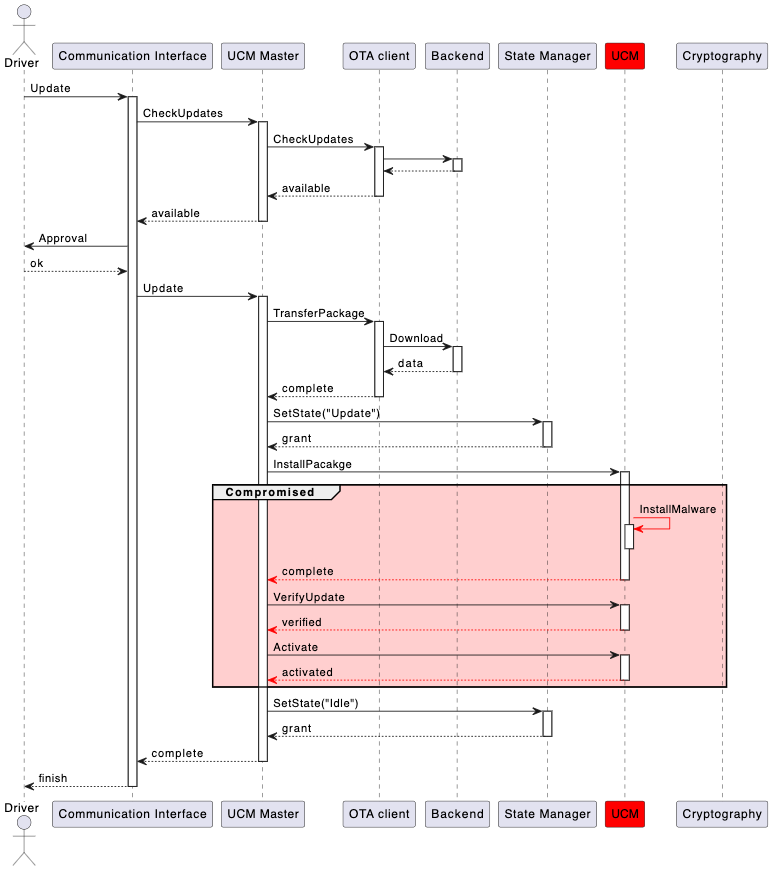
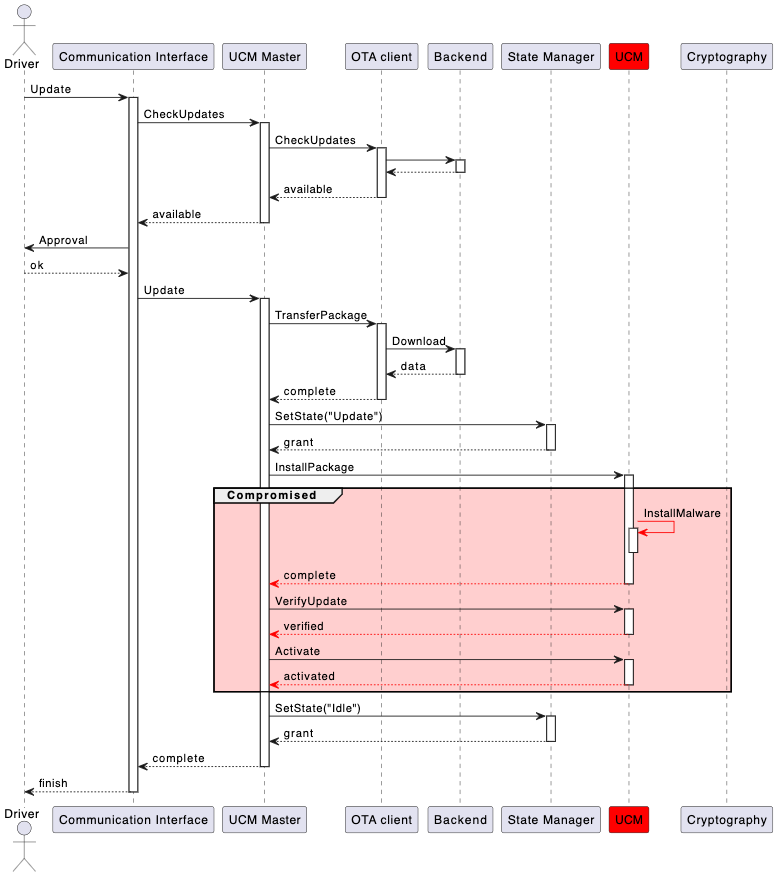
Upgrade architecture

diff --git a/README.md b/README.md
@@ -89,8 +89,11 @@
 
 ## НС-4
 
-При компрометации модуля `UCM Master` становится доступна установка модуля в произвольный момент времени, нарушая `ЦБ-2`. Сценарий аналогичен `НС-2`.
-Негативные последствия, не приводащие к нарушению целей безопасности аналогичны `НС-3`.
+При компрометации модуля `UCM Master` становится доступна установка модуля в произвольный момент времени, нарушая `ЦБ-2`. 
+Сценарий аналогичен `НС-2`.
+Негативные последствия, не приводящие к нарушению целей безопасности аналогичны `НС-3`.
+
+![UCM Master compromised](doc/negative-scenarios/NS-4-ucm-master-compromised.png)
 
 ## НС-5
 
@@ -113,12 +116,37 @@
 
 | Наименование | Уровень доверия | Обоснование | 
 | --- |  --- |  --- | 
-| `Communication interface` | <span style="background-color:red;color:white">недоверенный</span> | Компрометация не нарушает ЦБ | 
-| `UCM Master` | <span style="background-color:red;color:white">недоверенный</span> | Компрометация не нарушает ЦБ при доверенном компоненте `Cryptography` |
-| `UCM` | <span style="background-color:green;color:white">доверенный</span> | `НС-1` |
-| `OTA Client` | <span style="background-color:red;color:white">недоверенный</span> | не нарушает ЦБ при доверенном компоненте `Cryptography` |
-| `State Manager` | <span style="background-color:green;color:white">доверенный</span> | `НС-2` |
-| `Cryptography` | <span style="background-color:green;color:white">доверенный</span> | `НС-3`, `НС-6` |
+| `UCM` | доверенный | `НС-1` |
+| `State Manager` | доверенный | `НС-2` |
+| `Cryptography` | доверенный | `НС-3`, `НС-6` |
+| `UCM Master` | доверенный | `НС-4` |
+| `OTA Client` | недоверенный | Компрометация не нарушает ЦБ при доверенном компоненте `Cryptography` |
+| `Communication interface` | недоверенный | Компрометация не нарушает ЦБ | 
+Табл. 1
+
+# Переработанная политика архитектуры
+
+Полученное на предыдущем шаге решение содержит большое количество доверенного кода.
+Компонент `UCM Master` вынужденно добавлен в список доверенных компонентов, т.к. его компрометация нарушает `ЦБ-2`. К тому же этот компонент является самым большим в системе. 
+
+В целях минимизации доверенной кодовой базы, переработав базовый сценарий, этот компонент можно вывести из списка доверенных. Для этого достаточно вынести из него функциональность по взаимодействию со `State Manager`. `UCM` подходящий компонент, который мог бы взять на себя эту работу вместо `UCM Master`.
+
+Доработаный базовый сценарий теперь выглядит следующим образом:
+
+![base-scenario-2.0](doc/base-scenario-2.0.png)
+
+| Наименование | Уровень доверия | Обоснование | 
+| --- |  --- |  --- | 
+| `UCM` | доверенный | `НС-1` |
+| `State Manager` | доверенный | `НС-2` |
+| `Cryptography` | доверенный | `НС-3`, `НС-6` |
+| `UCM Master` | недоверенный | Компрометация не нарушает ЦБ при доверенном компоненте `Cryptography`  |
+| `OTA Client` | недоверенный | Компрометация не нарушает ЦБ при доверенном компоненте `Cryptography` |
+| `Communication interface` | недоверенный | Компрометация не нарушает ЦБ | 
+Табл. 2
+
+Данное решение удовлетворяет завяленным целям безопасности.
+Предложенная оптимизация позволила значительно сократить размер доверенной кодовой базы и уменьшить, связанный с этим объем работ.
 
 # <a name="links"></a>Ссылки
 
